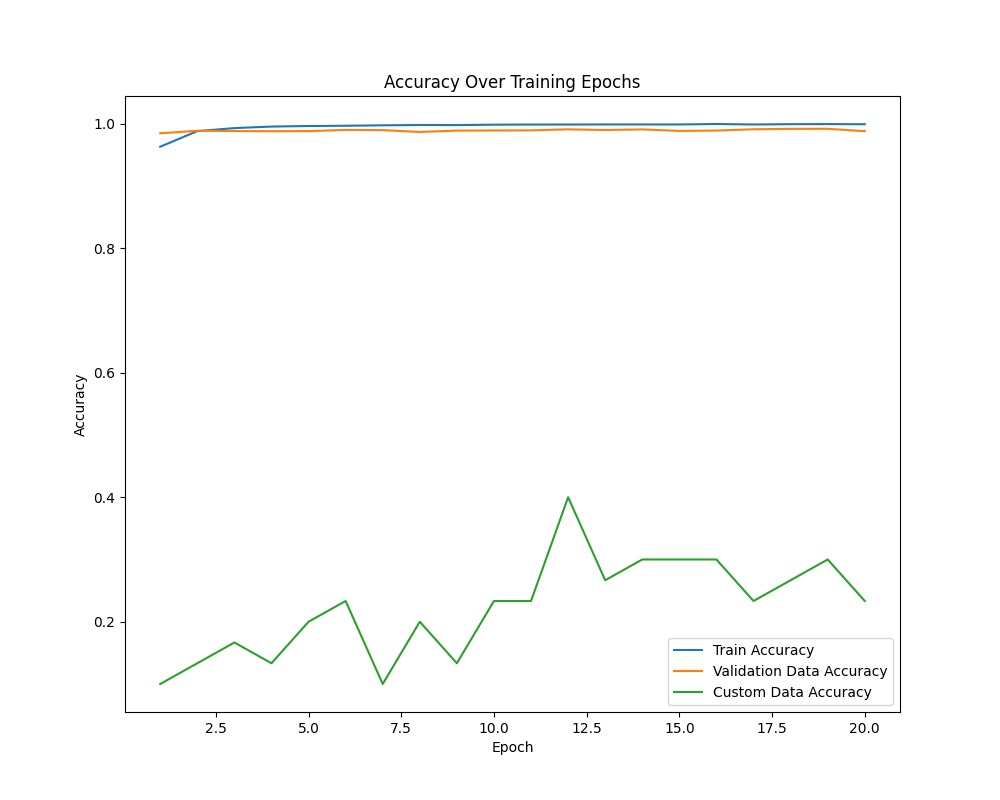
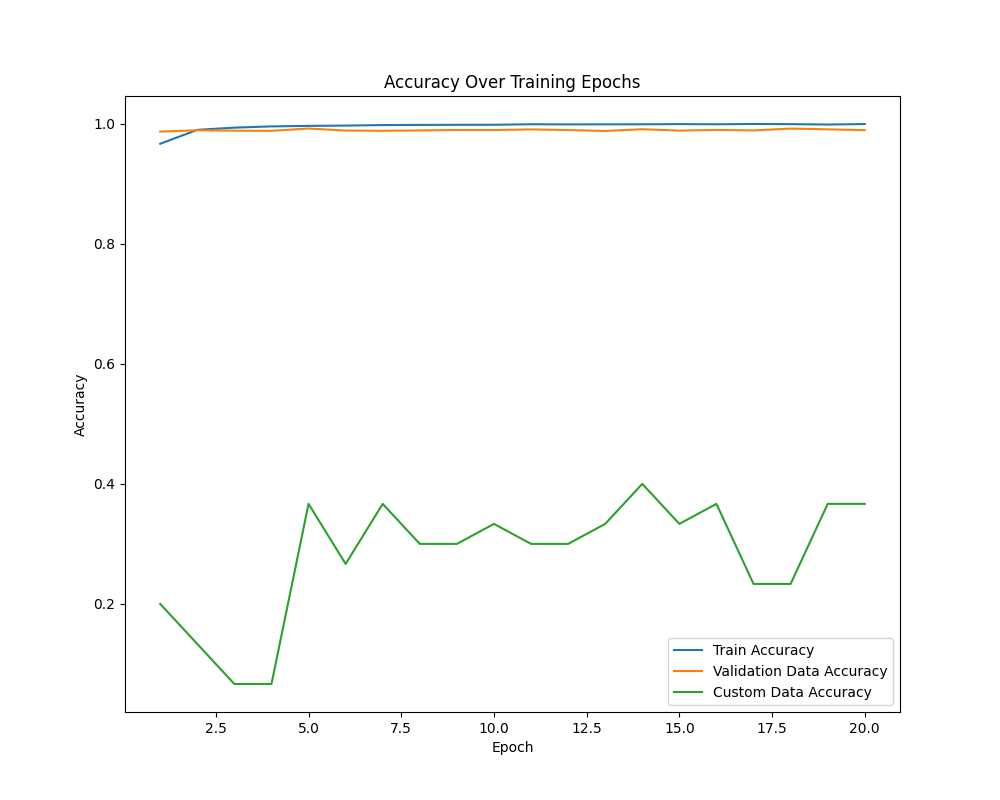
whatevs

diff --git a/Sem4/AI/neural/compile.py b/Sem4/AI/neural/compile.py
@@ -6,14 +6,14 @@ tf.random.set_seed(279679)
 model = tf.keras.models.Sequential([
 
     # scans image with 32 filters of size 3x3
-    tf.keras.layers.Conv2D(32, (3, 3), activation='relu', input_shape=(28, 28, 1)),
+    tf.keras.layers.Conv2D(64, (3, 3), activation='relu', input_shape=(28, 28, 1)),
 
     # downsamples the image (bochen)
     tf.keras.layers.MaxPooling2D((2, 2)),
     
     # relu - rectified linear unit
     # zero negative values, shut down neuron, help with vanishing gradient
-    tf.keras.layers.Conv2D(32, (3, 3), activation='relu'),
+    tf.keras.layers.Conv2D(64, (3, 3), activation='relu'),
 
     # flattens image to 1D array
     tf.keras.layers.Flatten(),

diff --git a/Sem4/AI/neural/train_and_metrics.py b/Sem4/AI/neural/train_and_metrics.py
@@ -5,7 +5,7 @@ import matplotlib.pyplot as plt
 from sklearn.metrics import confusion_matrix, classification_report
 from custom_data.process_img import get_imgs
 
-BEST_EPOCHS = 12
+BEST_EPOCHS = 14
 
 np.random.seed(279679)
 tf.random.set_seed(279679)
